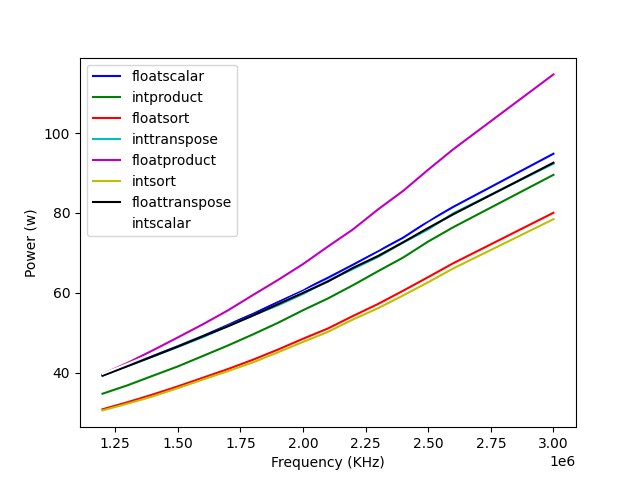
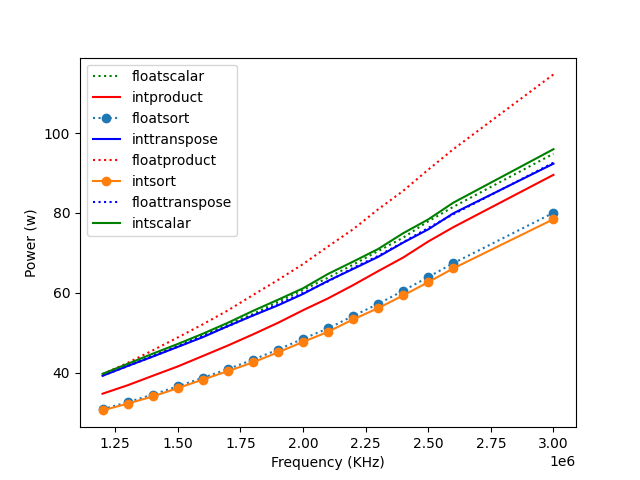
Changed linestyle for int/float works. Recalculated.

diff --git a/log/plotdata.py b/log/plotdata.py
@@ -2,6 +2,16 @@ import os
 import matplotlib.pyplot as plt
 
 IMAGEPATH = 'img/'
+STYLES = {
+        'intproduct': 'r-',
+        'floatproduct': 'r:',
+        'inttranspose': 'b-',
+        'floattranspose': 'b:',
+        'intscalar': 'g-',
+        'floatscalar': 'g:',
+        'intsort': 'o-',
+        'floatsort': 'o:'
+        }
 
 def get_file_data(csv):
     csvf = open(csv, 'r')
@@ -97,15 +107,11 @@ def plot_mean(data, results):
     imgpath = IMAGEPATH + 'mean.' + data + '.png'
     plt.clf()
     
-    colors = 'bgrcmykw'
-    index = 0
     for work in results:
         label = work
-        color = colors[index]
         
         x, y = zip(*results[work][data][-1].items())
-        plt.plot(x, y, label=label, color=color)
-        index += 1
+        plt.plot(x, y, STYLES[work], label=label)
 
     plt.xlabel('Frequency (KHz)')
     plt.ylabel('Time (ms)' if data == 'time' else 'Power (w)')
